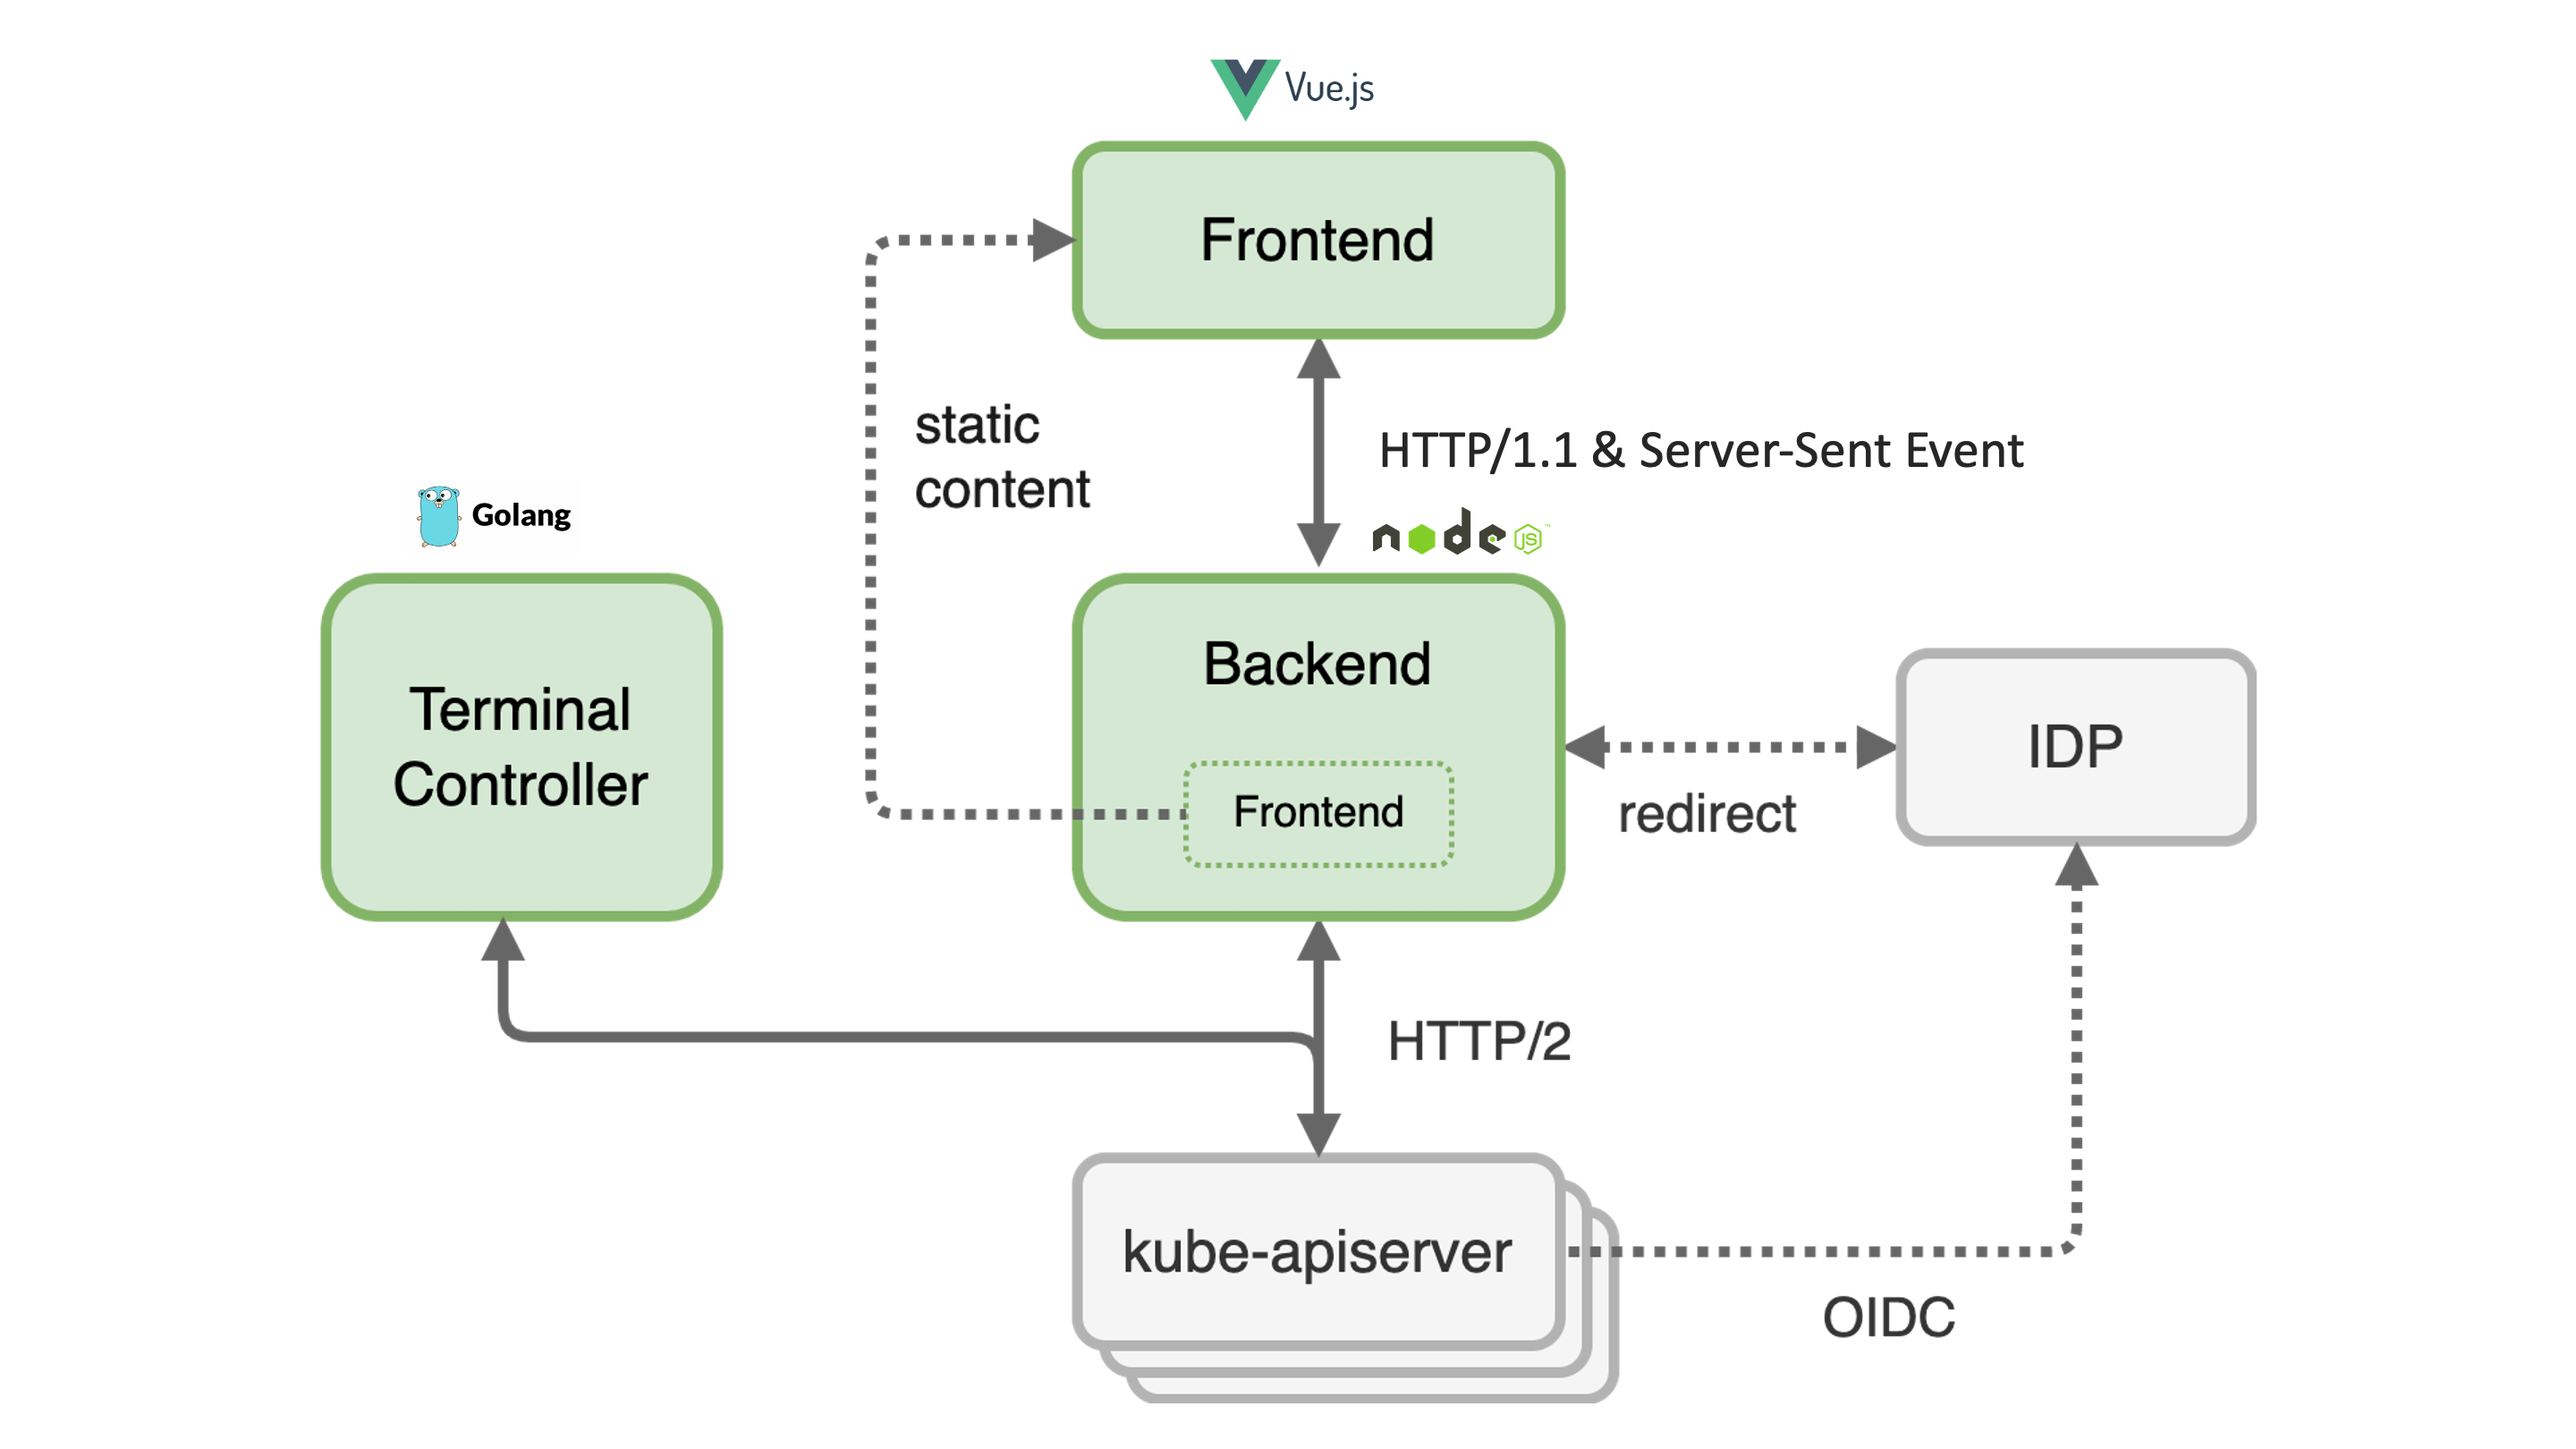
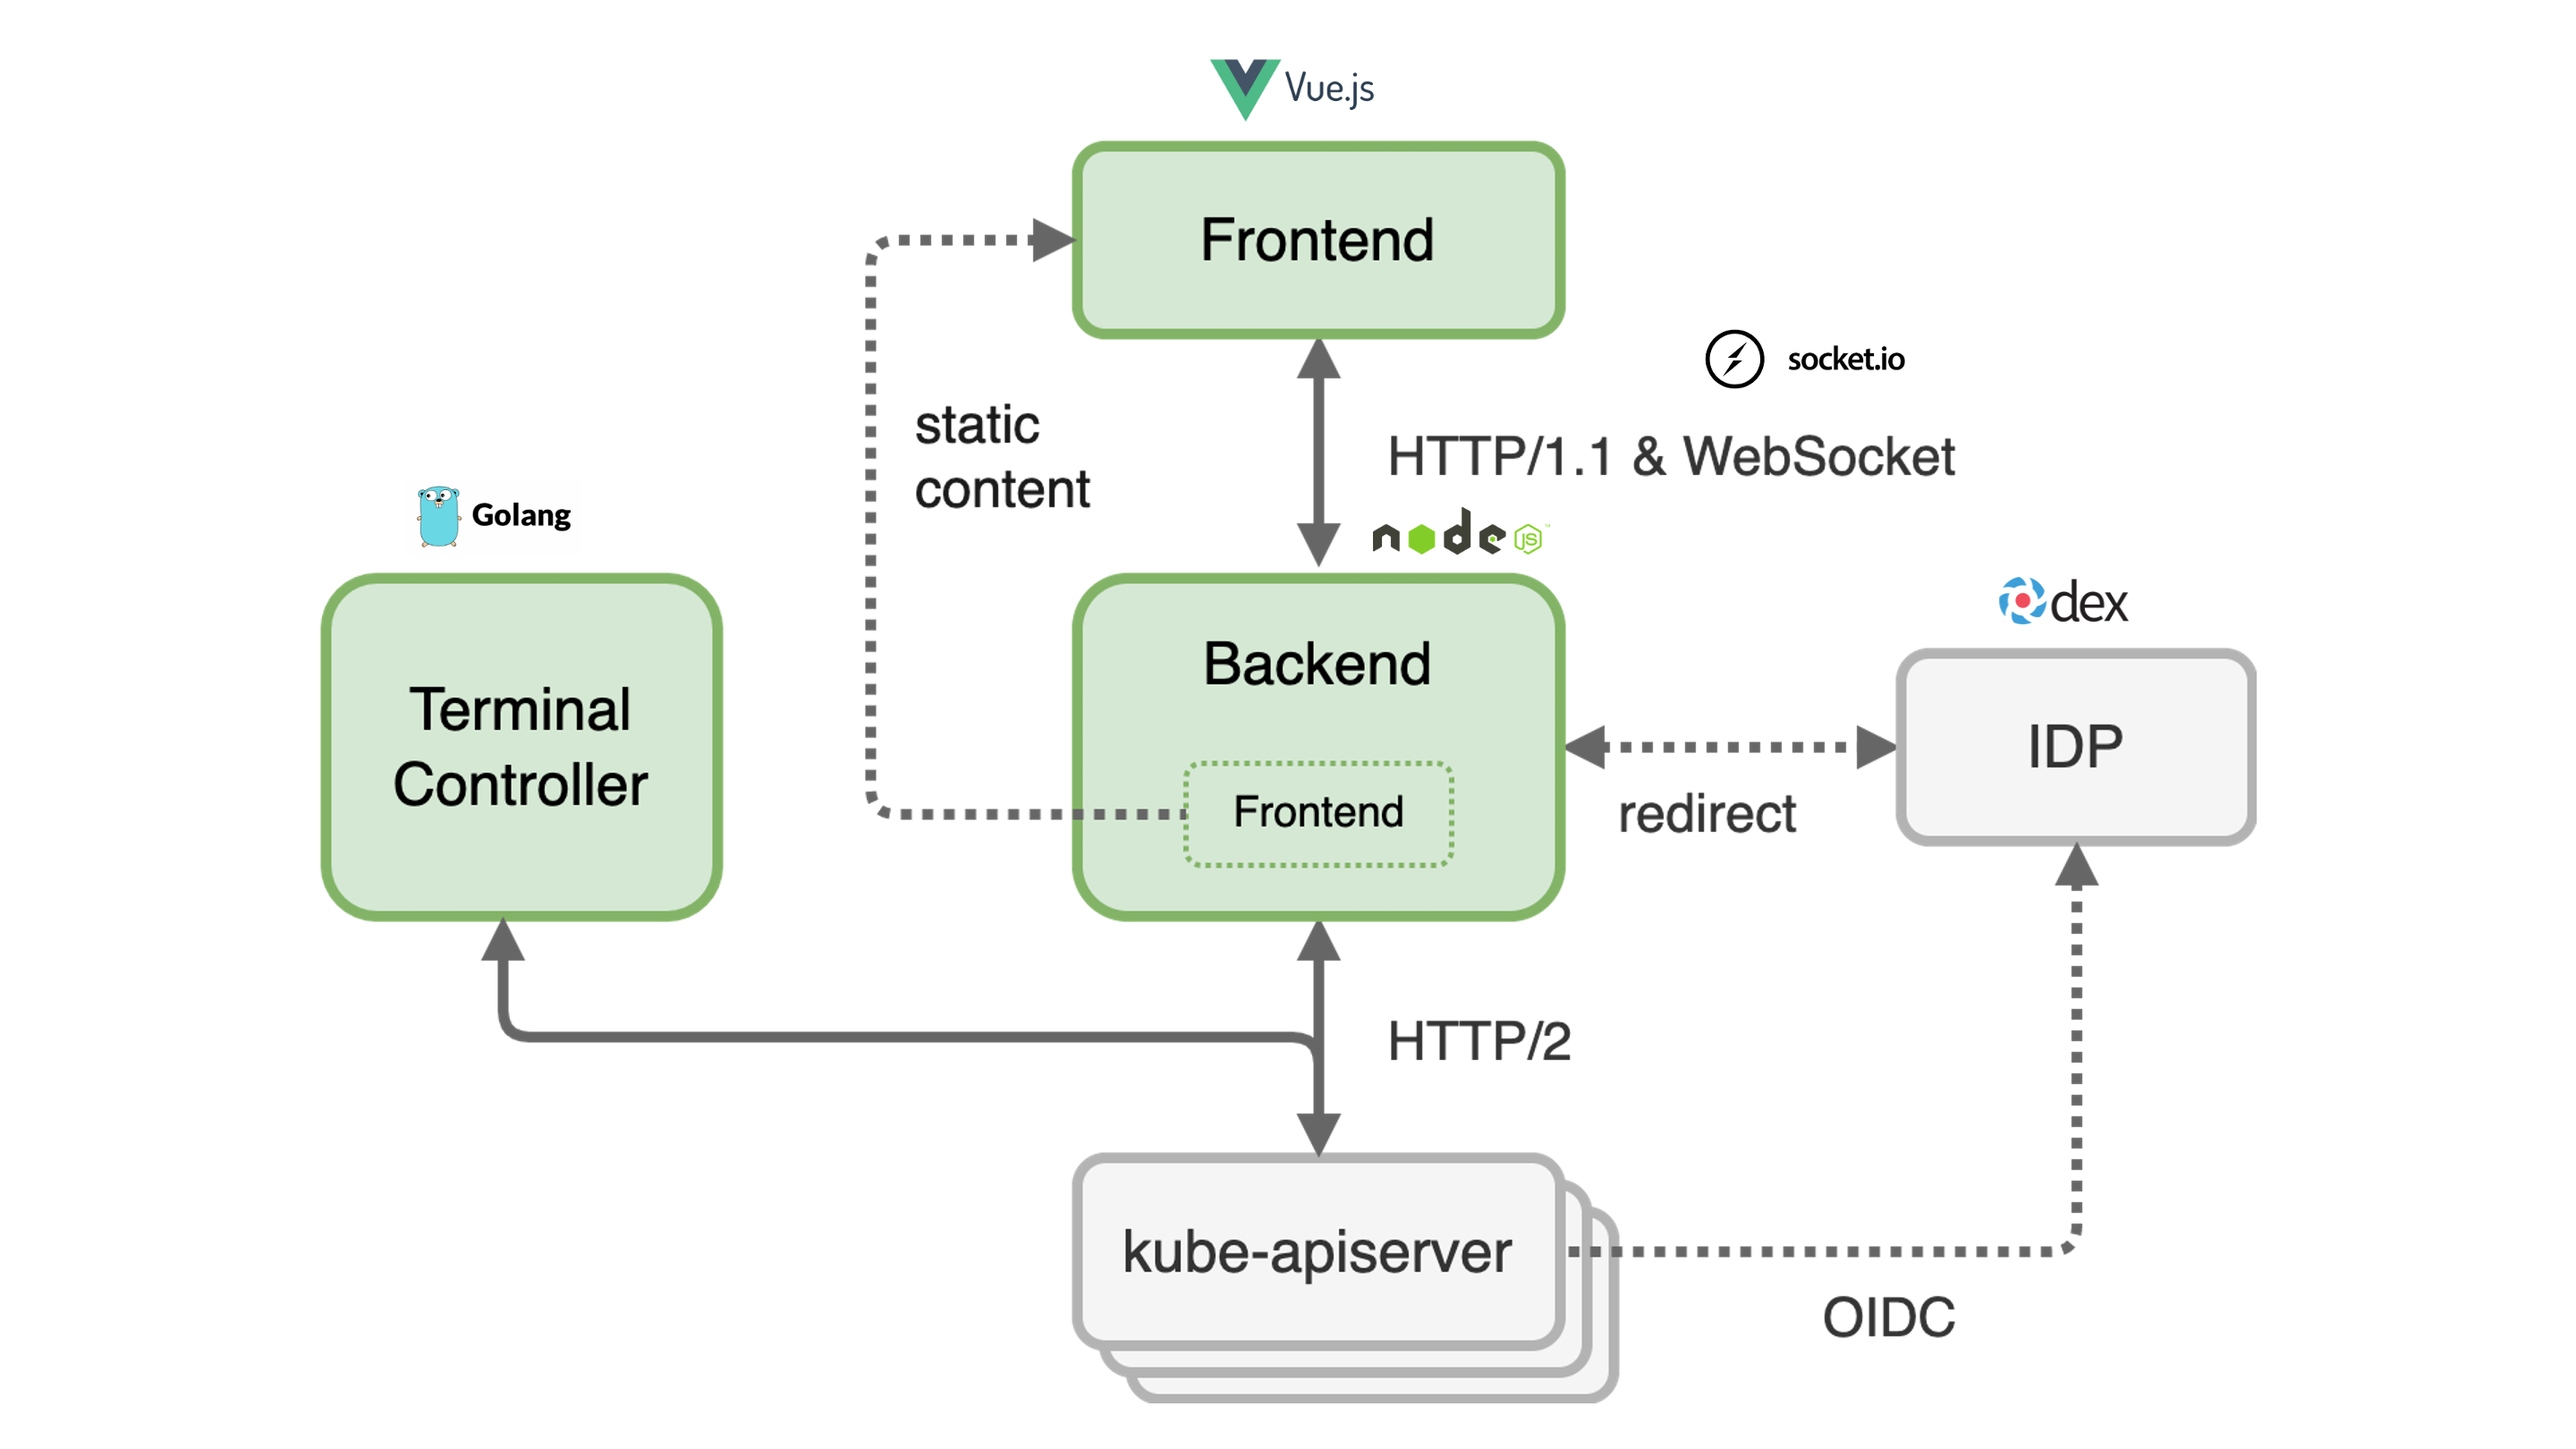
revert architecture doc

Changed region(s): [[0.5312, 0.216, 0.7812, 0.3395], [0.7812, 0.4012, 0.8438, 0.4321]]

diff --git a/docs/architecture/README.md b/docs/architecture/README.md
@@ -2,7 +2,7 @@
 
 ## Overview
 
-The dashboard `frontend` is a Single Page Application (SPA) built with [Vue.js](https://vuejs.org/). The dashboard `backend` is web server build with [Express](http://expressjs.com) and [Node.js](https://nodejs.org/). The `backend` serves the bundled `frontend` as static content. The dashboard uses [Server-Sent Events](https://developer.mozilla.org/en-US/docs/Web/API/Server-sent_events) to send data changes in real-time from the `backend` to the `frontend`. For the communication from the `backend` to different `kube-apiservers` the http/2 network protocol is used. Authentication at the `apiserver` of the garden cluster is done via JWT tokens. These can either be an ID Token issued by an OpenID Connect Provider or the token of a Kubernetes Service Account. 
+The dashboard `frontend` is a Single Page Application (SPA) built with [Vue.js](https://vuejs.org/). The dashboard `backend` is web server build with [Express](http://expressjs.com) and [Node.js](https://nodejs.org/). The `backend` serves the bundled `frontend` as static content. The dashboard uses [Socket.IO](https://socket.io/) to enable real-time, bidirectional and event-based communication between the `frontend` and the `backend`. For the communication from the `backend` to different `kube-apiservers` the http/2 network protocol is used. Authentication at the `apiserver` of the garden cluster is done via JWT tokens. These can either be an ID Token issued by an OpenID Connect Provider or the token of a Kubernetes Service Account. 
  
 <img src="../images/architecture-1.png">
 
